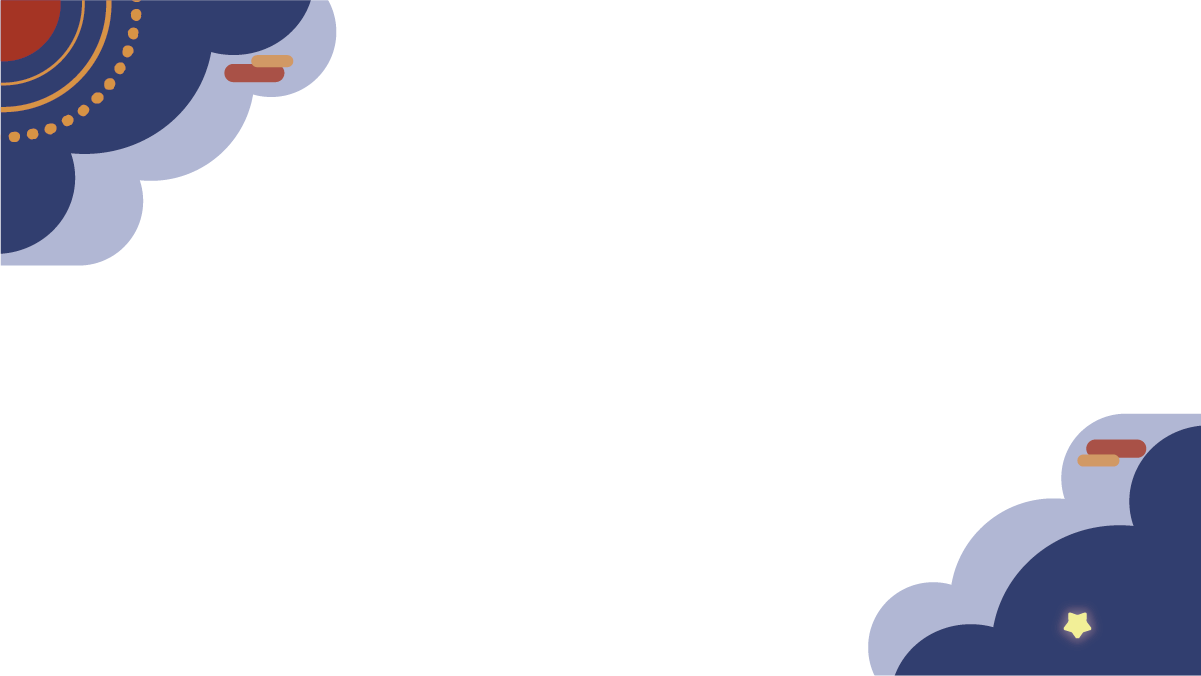
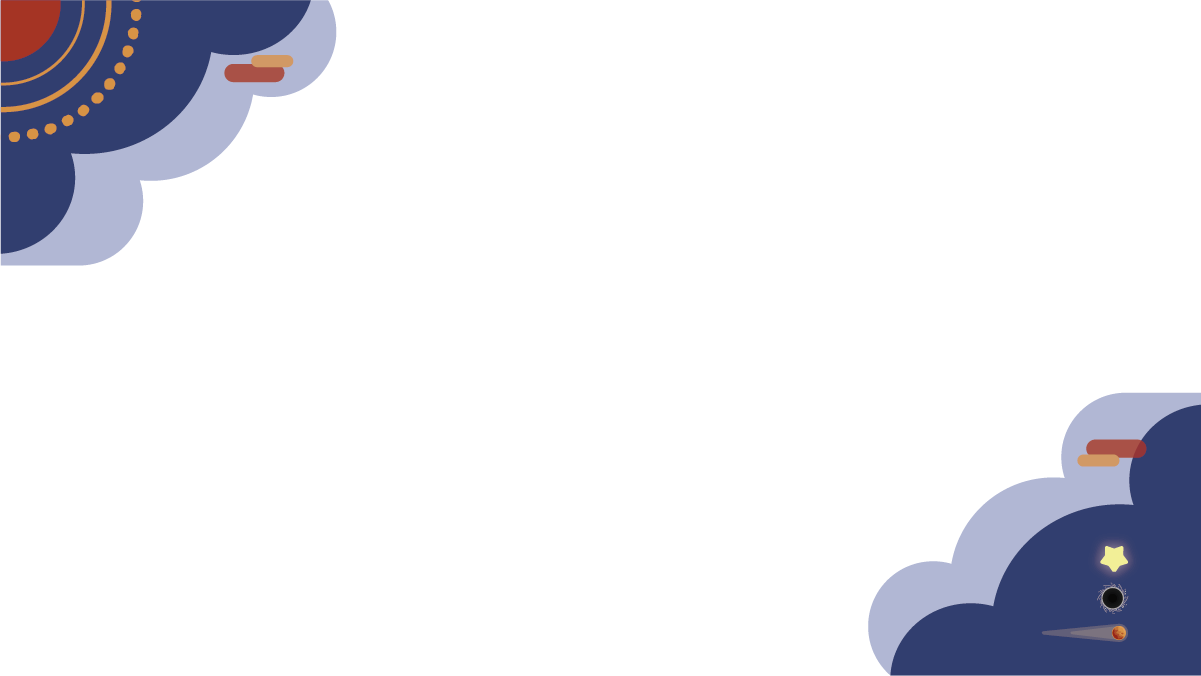
Interfaz Juego
Valores arreglados. Cometas, agujeros y estrellas que el jugador recoge y usa

Changed region(s): [[0.7086, 0.5592, 1.0, 1.0]]

diff --git a/Taller2/src/mquevedojbravo/Mundo.java b/Taller2/src/mquevedojbravo/Mundo.java
@@ -66,17 +66,21 @@ public class Mundo extends Thread {
 			}
 		}
 		app.image(interfaz, app.width/2, app.height/2);
+		//Texto Interfaz
 		app.textAlign(app.CORNER, app.CENTER);
 		app.textFont(mali);
 		app.fill(255);
-		app.text(j.getEstrellas(), 1111.64f, 620.7f);
+		app.text(j.getEstrellas(), 1150.81f, 556.21f);
+		app.text(j.getAgujero(),  1150.81f, 595.71f);
+		app.text(j.getCometa(),  1150.81f, 632.5f);
+		//Tiempo
 		int seg = (contadorTiempo - app.millis())/1000;
 		int min = seg/60;
 		seg -= min*60;
 		if(seg > 9) {
-			app.text(min + ":" + seg, 1061.64f, 590);
+			app.text(min + ":" + seg, 946.62f, 635.13f);
 		} else {
-			app.text(min + ":0" + seg, 1061.64f, 590);
+			app.text(min + ":0" + seg, 946.62f, 635.13f);
 		}
 		
 		
